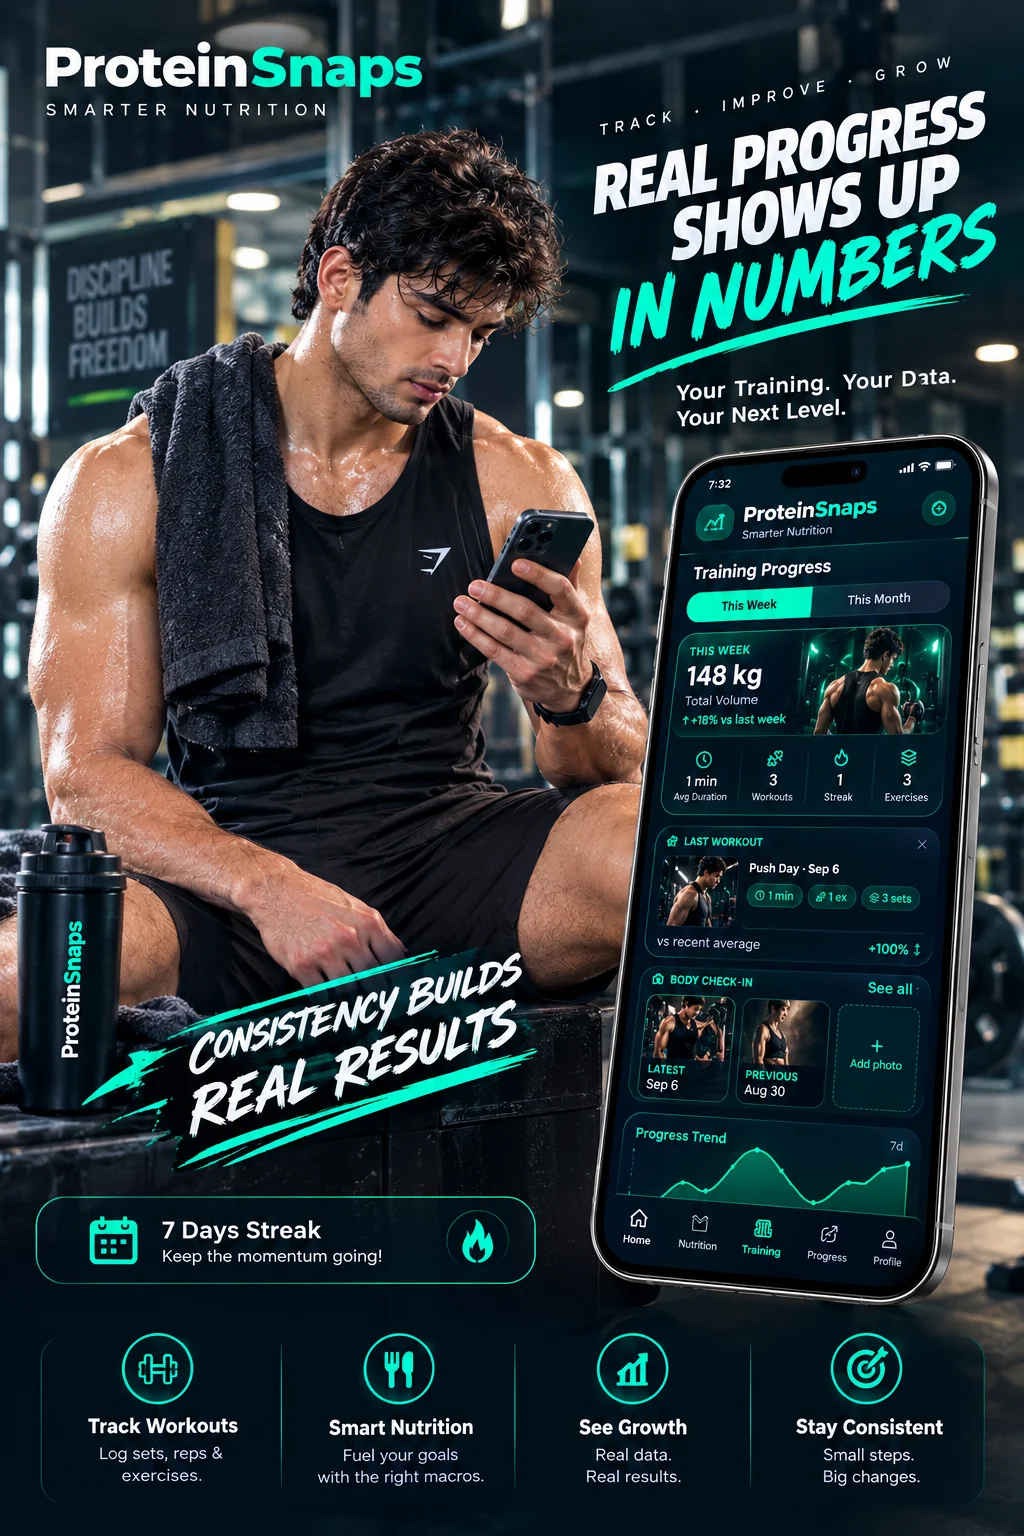
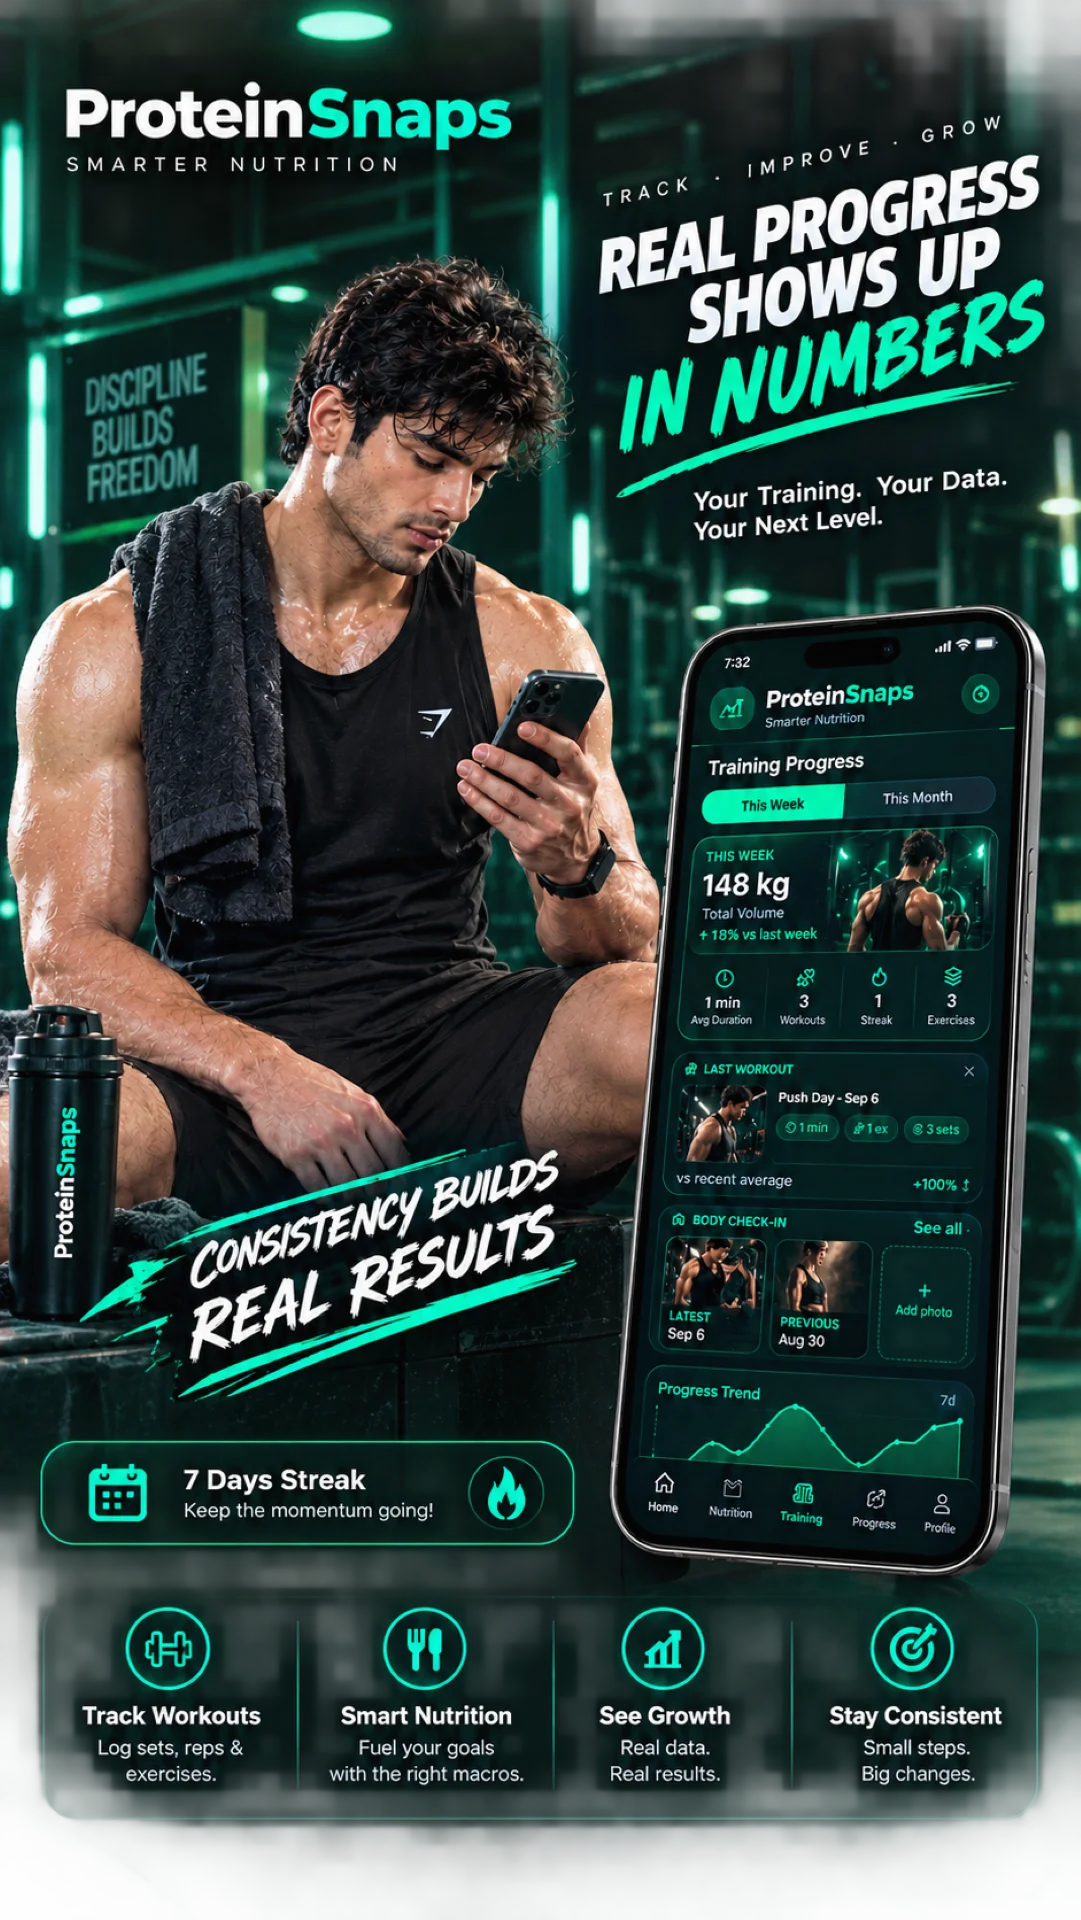
fix(proteinsnaps): contain images in mockup, add PS-12 PS-13, update portrait images

diff --git a/components/proteinsnaps/ScreenshotsSection.tsx b/components/proteinsnaps/ScreenshotsSection.tsx
@@ -59,24 +59,25 @@ export function ScreenshotsSection() {
             <div className="relative rounded-[2rem] border-[3px] border-white/10 bg-[#0a0f18] p-2 ps-glow-frame shadow-2xl">
               <div className="absolute left-1/2 top-2 z-10 h-1 w-16 -translate-x-1/2 rounded-full bg-white/20" />
               <div className="relative mt-4 aspect-[9/19] overflow-hidden rounded-[1.5rem] bg-black">
-                <AnimatePresence mode="sync">
+                {SCREENSHOT_SLIDES.map((screenshot, i) => (
                   <motion.div
-                    key={slide.src}
-                    initial={{ opacity: 0 }}
-                    animate={{ opacity: 1 }}
-                    exit={{ opacity: 0 }}
+                    key={screenshot.src}
+                    initial={false}
+                    animate={{ opacity: i === index ? 1 : 0 }}
                     transition={{ duration: 0.8 }}
-                    className="absolute inset-0"
+                    className="absolute inset-0 bg-black"
+                    aria-hidden={i !== index}
                   >
                     <Image
-                      src={slide.src}
-                      alt={slide.feature}
+                      src={screenshot.src}
+                      alt={screenshot.feature}
                       fill
                       sizes="280px"
-                      className="object-cover object-top"
+                      className="object-contain object-center"
+                      priority={i <= 1}
                     />
                   </motion.div>
-                </AnimatePresence>
+                ))}
               </div>
             </div>
           </div>
@@ -112,24 +113,25 @@ export function ScreenshotsSection() {
             <div className="absolute -inset-4 rounded-[2.5rem] bg-gradient-to-b from-[#00e6a8]/20 to-[#00c2ff]/10 blur-2xl" />
             <div className="relative rounded-[2rem] border-[3px] border-white/10 bg-[#0a0f18] p-2 ps-glow-frame">
               <div className="relative mt-3 aspect-[9/19] overflow-hidden rounded-[1.5rem] bg-black">
-                <AnimatePresence mode="sync">
+                {SCREENSHOT_SLIDES.map((screenshot, i) => (
                   <motion.div
-                    key={slide.src}
-                    initial={{ opacity: 0 }}
-                    animate={{ opacity: 1 }}
-                    exit={{ opacity: 0 }}
+                    key={screenshot.src}
+                    initial={false}
+                    animate={{ opacity: i === index ? 1 : 0 }}
                     transition={{ duration: 0.8 }}
-                    className="absolute inset-0"
+                    className="absolute inset-0 bg-black"
+                    aria-hidden={i !== index}
                   >
                     <Image
-                      src={slide.src}
-                      alt={slide.feature}
+                      src={screenshot.src}
+                      alt={screenshot.feature}
                       fill
                       sizes="280px"
-                      className="object-cover object-top"
+                      className="object-contain object-center"
+                      priority={i <= 1}
                     />
                   </motion.div>
-                </AnimatePresence>
+                ))}
               </div>
             </div>
           </div>
